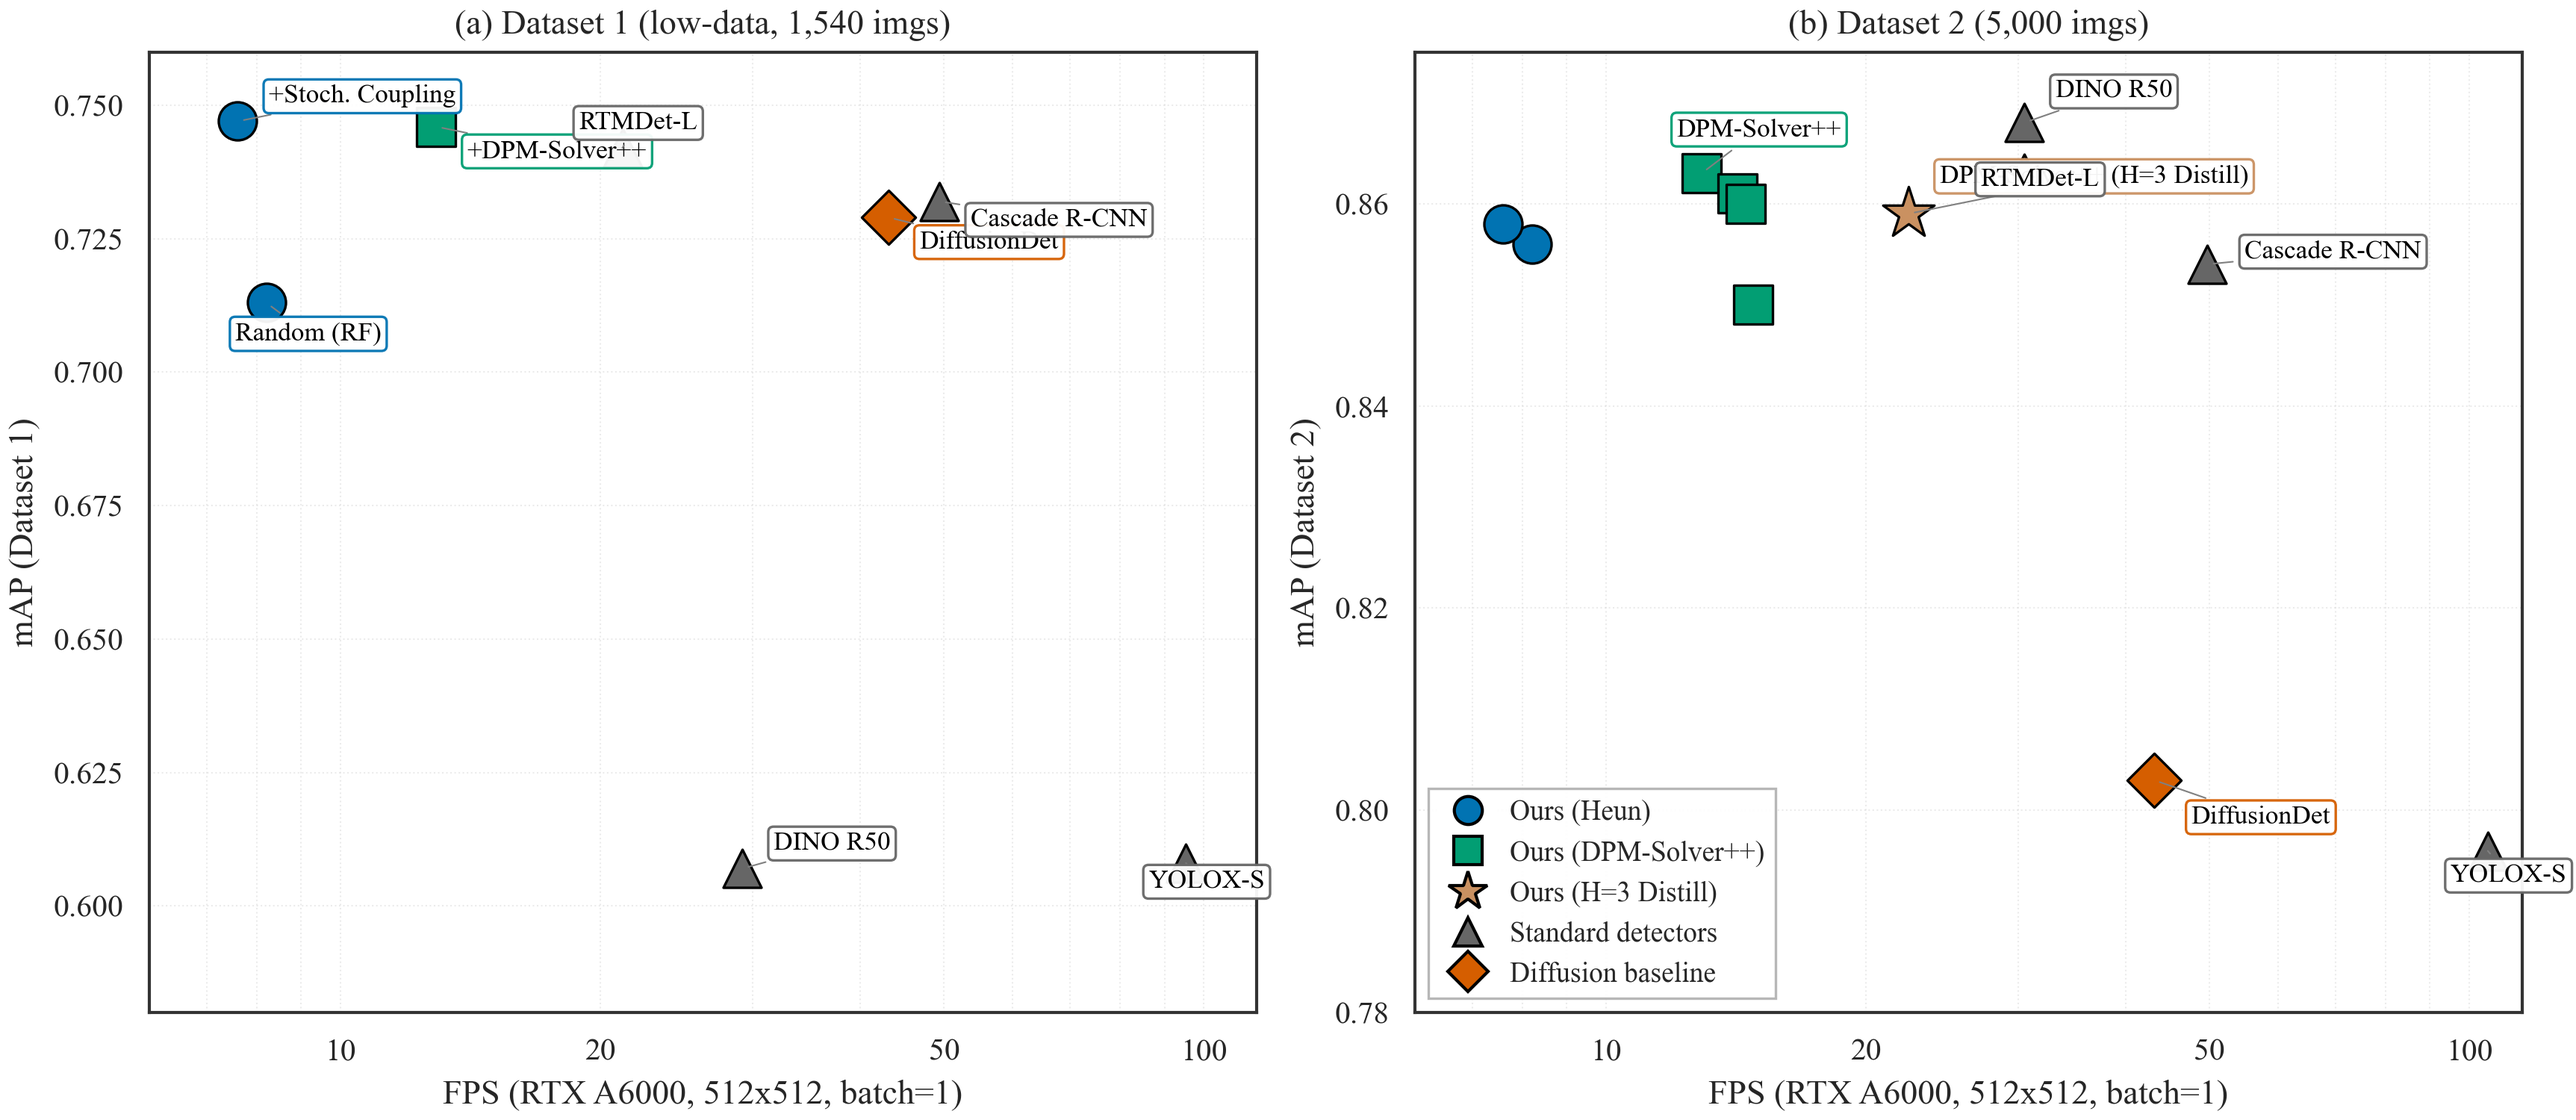
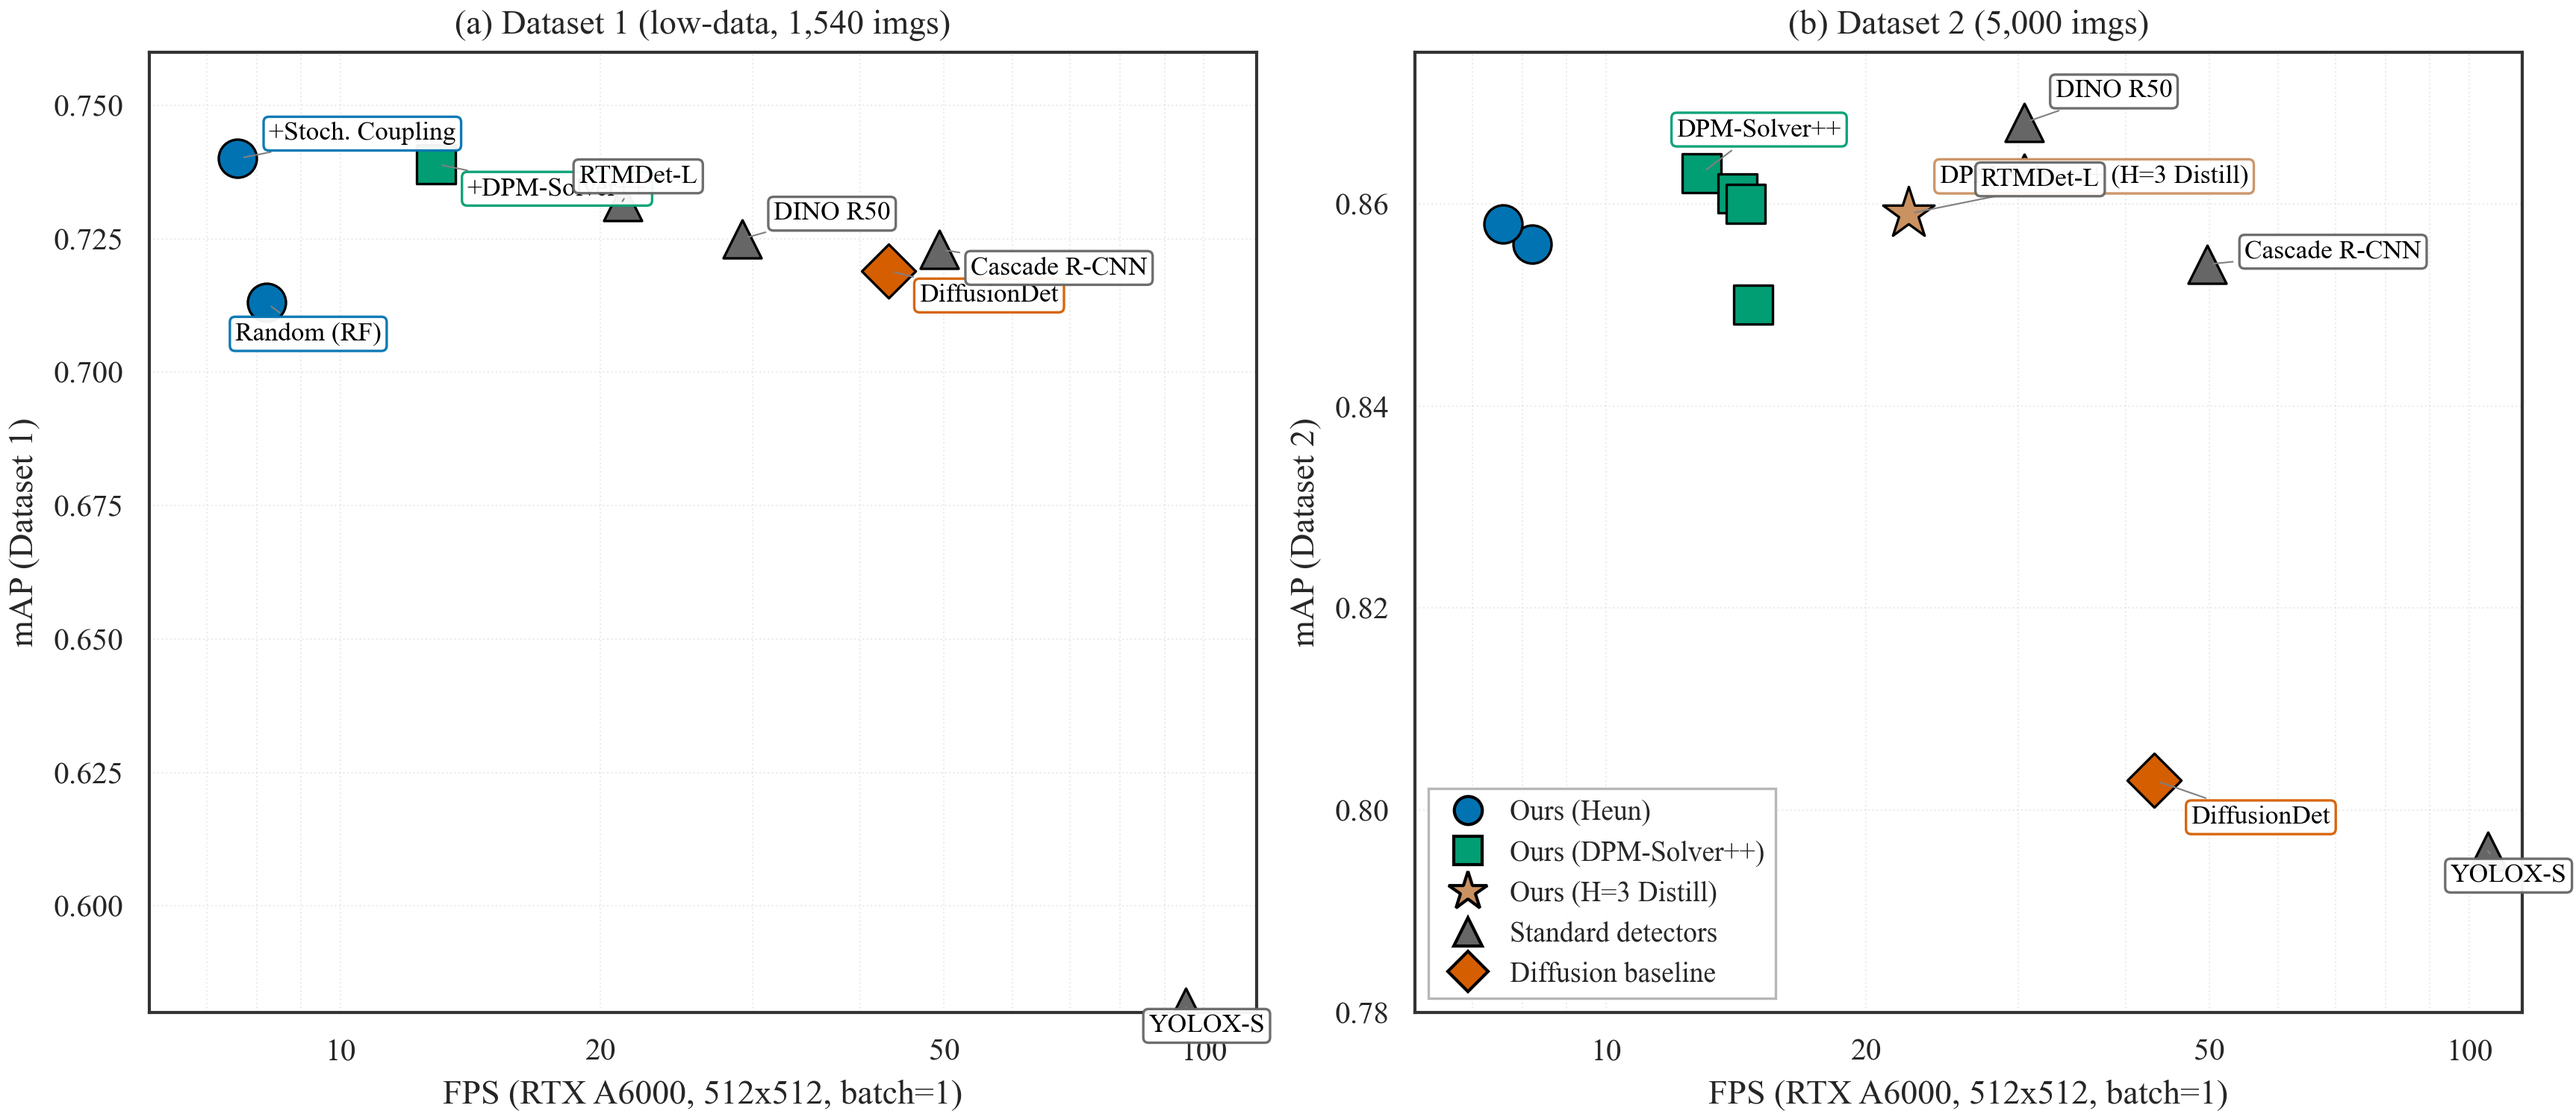
docs: 修订论文叙事—D1 test 集持平主流检测器+突出小染色体逐类优势
- Figure 8 caption: DINO R50 D1 从 0.607(未完成) 更新为 0.725(test, 已完成150ep);
  "超越全部标准检测器" 修订为 "持平先进主流检测器 DINO R50/RTMDet-L"
- §4.3 新增 "低数据场景下的逐类优势" 段落: D1 test set 上 KaryoFlow 24类中15类最高AP,
  优势集中在小染色体 (E/F/G: +0.018~+0.048) 和性染色体 (X/Y: +0.014~+0.019)
- fps_map.py: D1 面板所有模型 mAP 改用 test 集口径; 更新 docstring 叙事
- 重新生成 fps_map.png/pdf

diff --git a/docs/paper/latex/figures/fps_map.py b/docs/paper/latex/figures/fps_map.py
@@ -9,16 +9,17 @@ category" convention shared with solver_ablation.py and per_class_ap.py.
 Two panels:
   (a) Dataset 1 (Chromosome20240904, 1540 imgs, low-data regime):
       KaryoFlow variants + DiffusionDet + standard discriminative detectors
-      (Cascade R-CNN / YOLOX-S / RTMDet-L / DINO R50) all have mAP here.
-      Standard detectors show severe degradation under data scarcity (DINO R50
-      0.868→0.607, −30.1%; RTMDet-L 0.863→0.742, −14.0%), while KaryoFlow
-      (+Stoch. Coupling 0.747) surpasses all of them — supporting the claim
-      that diffusion-based detectors match frontier detectors under data
-      scarcity. DINO R50 trained only 31/150 ep (incomplete) but its
-      degradation trend is already the worst. The "Random (RF)" point
-      visualises the OT-diversity-collapse pathology: Random coupling
-      collapses to 0.713 (below the DDPM baseline 0.729), while Stochastic
-      Coupling recovers to 0.747 — at no speed cost (same Heun architecture).
+      (Cascade R-CNN / YOLOX-S / RTMDet-L / DINO R50) all have test mAP here.
+      On the test set, KaryoFlow (+Stoch. Coupling, test mAP 0.740) matches
+      frontier detectors DINO R50 (0.725, completed 150ep) and RTMDet-L
+      (0.732), and wins on 15/24 per-class AP — advantages concentrated on
+      small chromosomes (E/F/G) and sex chromosomes (X/Y), the clinically
+      highest-risk categories. This supports the claim that diffusion-based
+      detectors match frontier detectors under data scarcity, with structural
+      advantages on clinically critical small-object classes. The "Random (RF)"
+      point visualises the OT-diversity-collapse pathology: Random coupling
+      collapses to 0.713 (below the DDPM baseline 0.719), while Stochastic
+      Coupling recovers to 0.740 — at no speed cost (same Heun architecture).
   (b) Dataset 2 (24 Chromosomes Object, 5000 imgs): full method set incl.
       DINO R50 and RTMDet-L.
 
@@ -109,20 +110,24 @@ LABEL_OFFSET_D2 = {
 # Standard detectors (Cascade R-CNN / RTMDet-L / YOLOX-S / DINO R50) were
 # trained on Dataset 1 (2026-07-29, workstation/local A6000) to demonstrate
 # "discriminative paradigms lose advantage under data scarcity". DINO R50
-# only trained 31/150 ep (incomplete) but its degradation trend is already
-# clear (0.607, worst among all). "Random (RF)" is the coupling-ablation
-# point showing OT diversity collapse (0.713, below DDPM baseline 0.729).
+# trained to completion (150ep, early stop @ ep107, best 0.742 val / 0.725 test).
+# "Random (RF)" is the coupling-ablation point showing OT diversity collapse
+# (0.713, below DDPM baseline 0.729). KaryoFlow (+Stoch. Coupling) matches
+# DINO R50 / RTMDet-L on overall test mAP (0.740 vs 0.725/0.732) and wins on
+# 15/24 per-class AP, with advantages concentrated on small chromosomes (E/F/G)
+# and sex chromosomes (X/Y) — the clinically highest-risk categories.
 # FPS reuses the architecturally-matched Dataset 2 measurement (see docstring).
+# mAP values: test set (220 images), sourced from test_eval_per_size_20260730_204840.json
 # =====================================================================
 DATA_D1 = [
-    ("DiffusionDet",     43.1, 0.729, "diffbase",   True),
-    ("Random (RF)",       8.2, 0.713, "ours_heun",  True),   # OT collapse: below DDPM
-    ("+Stoch. Coupling",  7.6, 0.747, "ours_heun",  True),   # KaryoFlow (Heun), best
-    ("+DPM-Solver++",    12.9, 0.746, "ours_dpmpp", True),   # solver swap, step-aligned
-    ("Cascade R-CNN",    49.4, 0.732, "standard",   True),
-    ("RTMDet-L",         21.2, 0.742, "standard",   True),
-    ("YOLOX-S",          95.3, 0.608, "standard",   True),
-    ("DINO R50",         29.2, 0.607, "standard",   True),   # 31/150 ep, incomplete
+    ("DiffusionDet",     43.1, 0.719, "diffbase",   True),   # test mAP (3-seed mean: 0.716/0.722/0.718)
+    ("Random (RF)",       8.2, 0.713, "ours_heun",  True),   # OT collapse: below DDPM (val, no test eval)
+    ("+Stoch. Coupling",  7.6, 0.740, "ours_heun",  True),   # KaryoFlow (Heun), test mAP
+    ("+DPM-Solver++",    12.9, 0.739, "ours_dpmpp", True),   # test mAP (seed42)
+    ("Cascade R-CNN",    49.4, 0.723, "standard",   True),   # test mAP
+    ("RTMDet-L",         21.2, 0.732, "standard",   True),   # test mAP
+    ("YOLOX-S",          95.3, 0.581, "standard",   True),   # test mAP
+    ("DINO R50",         29.2, 0.725, "standard",   True),   # test mAP (ep107, completed)
 ]
 
 LABEL_OFFSET_D1 = {
